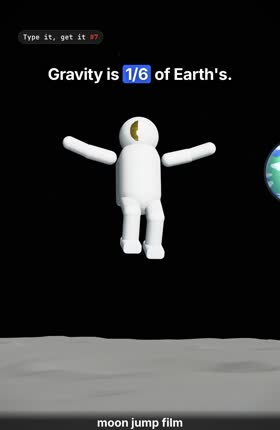
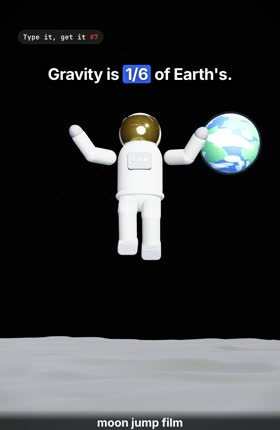
space7: Type it, get it #7 (Moon jump, solar system, black hole)
Claude-Session: https://claude.ai/code/session_011mgQaPmk61tb79mBg2KXZk

Changed region(s): [[0.0, 0.7558, 1.0, 0.9674], [0.2286, 0.2419, 1.0, 0.6047]]

diff --git a/hf/videos/space7/scenes.js b/hf/videos/space7/scenes.js
@@ -91,22 +91,29 @@ function strokeFig(g,p,jit){ const J=(q,i)=>jit?[q[0]+(hsh(i,jit)-.5)*3,q[1]+(hs
   const etex=canvasTex(1024,512,(c,w,h)=>{ c.fillStyle='#1d4fa8'; c.fillRect(0,0,w,h); const r=rnd(3);
     for(let i=0;i<22;i++){ c.fillStyle=i%3?'#3f8a4a':'#b59a62'; c.beginPath(); const x=r()*w,y=h*.2+r()*h*.6; for(let k=0;k<14;k++){ const a=k/14*Math.PI*2, rr=30+r()*70; c.lineTo(x+Math.cos(a)*rr*1.4,y+Math.sin(a)*rr*.8); } c.fill(); }
     for(let i=0;i<60;i++){ c.fillStyle='rgba(255,255,255,.55)'; c.beginPath(); c.ellipse(r()*w,r()*h,40+r()*90,8+r()*14,r()*.5,0,Math.PI*2); c.fill(); } });
-  const earth=new THREE.Mesh(new THREE.SphereGeometry(6,64,40),new THREE.MeshStandardMaterial({map:etex,roughness:.7,emissive:0x0a1a3a,emissiveIntensity:.3})); earth.position.set(-62,29,-120); sc.add(earth);
+  const earth=new THREE.Mesh(new THREE.SphereGeometry(6,64,40),new THREE.MeshStandardMaterial({map:etex,roughness:.7,emissive:0x0a1a3a,emissiveIntensity:.3})); earth.position.set(-32,38,-130); sc.add(earth);
   const atm=new THREE.Mesh(new THREE.SphereGeometry(6.4,48,32),glowMat(0x5aa0ff,.18)); atm.position.copy(earth.position); sc.add(atm);
-  // astronaut
-  const suit=new THREE.MeshStandardMaterial({color:0xd8d8d2,roughness:.75,envMapIntensity:.35}), dark=new THREE.MeshStandardMaterial({color:0x6d7178,roughness:.6}), visor=new THREE.MeshStandardMaterial({color:0xd6a53a,metalness:1,roughness:.12,envMapIntensity:1.2});
+  // astronaut: white suit with volume, chest panel, belt, gloves, neck ring, big gold mirrored visor over the whole face
+  const suit=new THREE.MeshStandardMaterial({color:0xe9e8e2,roughness:.62,envMapIntensity:.55}), dark=new THREE.MeshStandardMaterial({color:0x5f646c,roughness:.55,envMapIntensity:.5}),
+    visor=new THREE.MeshStandardMaterial({color:0xe0aa3e,metalness:1,roughness:.08,envMapIntensity:1.6}), strap=new THREE.MeshStandardMaterial({color:0xb9bcc2,roughness:.5});
   sc.environment=hdrEnv(ren);
-  const cap=(r,l,m)=>{ const o=new THREE.Mesh(new THREE.CapsuleGeometry(r,l,8,18),m); o.castShadow=true; return o; };
+  const rim=new THREE.DirectionalLight(0x9fc0ff,1.1); rim.position.set(-6,5,-9); sc.add(rim); const fill=new THREE.DirectionalLight(0xffffff,0.35); fill.position.set(2,3,12); sc.add(fill);
+  const cap=(r,l,m)=>{ const o=new THREE.Mesh(new THREE.CapsuleGeometry(r,l,10,24),m); o.castShadow=true; return o; };
   const man=new THREE.Group(); sc.add(man); const body=new THREE.Group(); man.add(body); body.position.y=1.15;
-  const torso=cap(0.36,0.55,suit); torso.position.y=0.45; body.add(torso);
-  const pack=new THREE.Mesh(rbox(0.62,0.8,0.32,0.08),suit); pack.position.set(0,0.5,-0.38); pack.castShadow=true; body.add(pack);
-  const helmet=new THREE.Mesh(new THREE.SphereGeometry(0.34,40,28),suit); helmet.position.y=1.18; helmet.castShadow=true; body.add(helmet);
-  const vz=new THREE.Mesh(new THREE.SphereGeometry(0.3,40,28,-Math.PI*0.42,Math.PI*0.84,Math.PI*0.25,Math.PI*0.45),visor); vz.position.set(0,1.18,0.05); vz.rotation.y=0; body.add(vz);
-  const limb=(px,py,l1,l2,r,m)=>{ const a=new THREE.Group(); a.position.set(px,py,0); const u=cap(r,l1,m); u.position.y=-l1/2-r*.3; a.add(u); const b=new THREE.Group(); b.position.y=-l1-r*.4; a.add(b); const d=cap(r*.92,l2,m); d.position.y=-l2/2-r*.3; b.add(d); return [a,b]; };
-  const [lA,lB]=limb(-0.2,0.05,0.42,0.42,0.15,suit), [rA,rB]=limb(0.2,0.05,0.42,0.42,0.15,suit); body.add(lA); body.add(rA);
-  const bootL=new THREE.Mesh(rbox(0.26,0.14,0.42,0.05),dark); bootL.position.set(0,-0.52,0.07); lB.add(bootL); const bootR=bootL.clone(); rB.add(bootR);
-  const [alA,alB]=limb(-0.47,0.78,0.36,0.34,0.12,suit), [arA,arB]=limb(0.47,0.78,0.36,0.34,0.12,suit); body.add(alA); body.add(arA);
-  man.rotation.y=0.55;
+  const torso=cap(0.38,0.5,suit); torso.position.y=0.47; torso.scale.set(1,1,.85); body.add(torso);
+  const belt=new THREE.Mesh(new THREE.TorusGeometry(0.36,0.05,12,40),strap); belt.rotation.x=Math.PI/2; belt.scale.set(1,.85,1); belt.position.y=0.1; body.add(belt);
+  const panel=new THREE.Mesh(rbox(0.36,0.26,0.08,0.04),dark); panel.position.set(0,0.62,0.31); body.add(panel);
+  [0xff4b3e,0x3ec1ff,0xf5d142].forEach((c,i)=>{ const b=new THREE.Mesh(new THREE.CylinderGeometry(0.03,0.03,0.03,16),new THREE.MeshStandardMaterial({color:c,emissive:c,emissiveIntensity:.6})); b.rotation.x=Math.PI/2; b.position.set(-0.1+i*0.1,0.62,0.36); body.add(b); });
+  const pack=new THREE.Mesh(rbox(0.66,0.82,0.34,0.1),suit); pack.position.set(0,0.52,-0.4); pack.castShadow=true; body.add(pack);
+  const ring=new THREE.Mesh(new THREE.TorusGeometry(0.24,0.06,14,40),strap); ring.rotation.x=Math.PI/2; ring.position.y=0.92; body.add(ring);
+  const helmet=new THREE.Mesh(new THREE.SphereGeometry(0.36,48,32),suit); helmet.position.y=1.2; helmet.castShadow=true; body.add(helmet);
+  const vz=new THREE.Mesh(new THREE.SphereGeometry(0.372,48,32,-Math.PI*0.36,Math.PI*0.72,Math.PI*0.28,Math.PI*0.42),visor); vz.position.set(0,1.2,0); vz.rotation.y=Math.PI/2; body.add(vz);
+  const limb=(px,py,l1,l2,r,m)=>{ const a=new THREE.Group(); a.position.set(px,py,0); const u=cap(r,l1,m); u.position.y=-l1/2-r*.3; a.add(u); const b=new THREE.Group(); b.position.y=-l1-r*.4; a.add(b); const d=cap(r*.92,l2,m); d.position.y=-l2/2-r*.3; b.add(d); return [a,b,d]; };
+  const [lA,lB]=limb(-0.19,0.05,0.42,0.42,0.16,suit), [rA,rB]=limb(0.19,0.05,0.42,0.42,0.16,suit); body.add(lA); body.add(rA);
+  const bootL=new THREE.Mesh(rbox(0.28,0.16,0.44,0.06),dark); bootL.position.set(0,-0.56,0.07); bootL.castShadow=true; lB.add(bootL); const bootR=bootL.clone(); rB.add(bootR);
+  const [alA,alB,alF]=limb(-0.5,0.78,0.34,0.32,0.13,suit), [arA,arB,arF]=limb(0.5,0.78,0.34,0.32,0.13,suit); body.add(alA); body.add(arA);
+  [alB,arB].forEach(b=>{ const gl=new THREE.Mesh(new THREE.SphereGeometry(0.12,24,16),dark); gl.scale.set(1,1.15,.9); gl.position.y=-0.44; gl.castShadow=true; b.add(gl); });
+  man.rotation.y=0.35;
   // dust: grains fly in clean ballistic arcs (no air), gravity g=1.62 m/s² scaled
   const N=420, dp=new Float32Array(N*3), dv=[]; for(let i=0;i<N;i++){ const a=R()*Math.PI*2, s=0.6+R()*1.8; dv.push([Math.cos(a)*s,1.0+R()*2.2,Math.sin(a)*s,R()*0.12]); }
   const dg=new THREE.BufferGeometry(); dg.setAttribute('position',new THREE.BufferAttribute(dp,3));
@@ -118,7 +125,7 @@ function strokeFig(g,p,jit){ const J=(q,i)=>jit?[q[0]+(hsh(i,jit)-.5)*3,q[1]+(hs
     body.position.y=1.15-sq+y;
     const tuck=inAir?Math.sin(air*Math.PI):0;
     lA.rotation.x=-0.5*crouch*(lt<T0?1:0)-0.9*tuck; lB.rotation.x=1.0*crouch*(lt<T0?1:0)+1.4*tuck; rA.rotation.x=lA.rotation.x+0.2*tuck; rB.rotation.x=lB.rotation.x-0.1*tuck;
-    alA.rotation.z=-0.25-1.6*tuck; arA.rotation.z=0.25+1.6*tuck; alA.rotation.x=0.5*crouch*(lt<T0?1:0); arA.rotation.x=alA.rotation.x; alB.rotation.x=-0.4; arB.rotation.x=-0.4;
+    const sw=lt<T0?crouch:0; alA.rotation.z=-0.18-0.7*tuck; arA.rotation.z=0.18+0.7*tuck; alA.rotation.x=0.6*sw-1.5*tuck; arA.rotation.x=0.6*sw-1.3*tuck; alB.rotation.x=-0.5-0.3*tuck; arB.rotation.x=-0.5-0.4*tuck;
     body.rotation.x=0.18*crouch*(lt<T0?1:0)-0.1*tuck;
     const dt=lt-T0; for(let i=0;i<N;i++){ const v=dv[i]; const tt=Math.max(0,dt-v[3]); let x=v[0]*tt, yy=0.05+v[1]*tt-0.81*tt*tt, z=v[2]*tt; if(yy<0.02){ yy=0.02; } if(dt<v[3]){ x=0; yy=-5; z=0; }
       const r=Math.hypot(v[0],v[2])*0.12; dp[i*3]=x+Math.sign(v[0])*r; dp[i*3+1]=yy; dp[i*3+2]=z; }
@@ -127,65 +134,65 @@ function strokeFig(g,p,jit){ const J=(q,i)=>jit?[q[0]+(hsh(i,jit)-.5)*3,q[1]+(hs
     ren.render(sc,cam); caption(0,lt); };
 })();
 
-// ---------- S1 /neon-silhouette a stick figure running through the city at night: a glowing pink stick figure runs, the skyline
-// slides past in two layers, every step leaves a cyan light trail, the wet street mirrors it all.
-(function(){ const F=flat2D('cv1'), g=F.g; const R=rnd(21); const GY=1260, FX=470, V=520;
-  const B1=[],B2=[]; for(let i=0;i<40;i++){ B1.push([i*150+R()*40,90+R()*170,110+R()*60,R()]); B2.push([i*120+R()*30,220+R()*420,90+R()*50,R()]); }
-  SCN[1]=function(lt0){ const lt=lt0*1.1, X=lt*V, ph=lt*Math.PI*2*2.2;
-    const gr=g.createLinearGradient(0,0,0,GY); gr.addColorStop(0,'#05030f'); gr.addColorStop(0.7,'#1a0b3a'); gr.addColorStop(1,'#3a0f4a'); g.fillStyle=gr; g.fillRect(0,0,1080,1920);
-    g.fillStyle='rgba(255,90,200,.15)'; g.beginPath(); g.arc(780,600,120,0,Math.PI*2); g.fill();
-    const bld=(L,par,col,win)=>{ for(const [bx,bh,bw,r] of L){ const x=((bx-X*par)%6000+6000)%6000-200; if(x>1100||x+bw<-20) continue; g.fillStyle=col; g.fillRect(x,GY-bh,bw,bh);
-        if(win){ for(let wy=GY-bh+20;wy<GY-20;wy+=34) for(let wx=x+14;wx<x+bw-18;wx+=28){ const on=hsh(Math.round(wx+bx),wy)>0.55; if(on){ g.fillStyle=hsh(wx,wy+1)>.5?'rgba(255,214,120,.85)':'rgba(120,230,255,.75)'; g.fillRect(wx,wy,12,16); } } }
-        if(r>0.7){ g.save(); g.strokeStyle=r>0.85?'#2ff3ff':'#ff3fd0'; g.lineWidth=6; g.shadowColor=g.strokeStyle; g.shadowBlur=20; g.strokeRect(x+12,GY-bh+30,bw-24,40); g.restore(); } } };
-    bld(B1,0.15,'#120a2a',false); bld(B2,0.4,'#0b0718',true);
-    g.fillStyle='#07040f'; g.fillRect(0,GY,1080,1920-GY);
-    // street lines
-    g.strokeStyle='rgba(255,63,208,.5)'; g.lineWidth=4; for(let i=0;i<12;i++){ const x=((i*160-X)%1920+1920)%1920-200; g.beginPath(); g.moveTo(x,GY+120); g.lineTo(x+90,GY+120); g.stroke(); }
-    const fig=(p,col,w,a)=>{ g.save(); g.globalAlpha=a; g.lineCap='round'; g.lineJoin='round'; g.strokeStyle=col; g.lineWidth=w; g.shadowColor=col; g.shadowBlur=26; strokeFig(g,p); g.shadowBlur=0; g.strokeStyle='rgba(255,255,255,.9)'; g.lineWidth=w*0.32; strokeFig(g,p); g.restore(); };
-    const S=1.55, oy=GY-104*S;
-    g.save(); g.translate(FX,oy); g.scale(S,S);
-    for(let i=6;i>=1;i--){ const dtt=i*0.055; const p=pose(ph-dtt*Math.PI*2*2.2,'run',{x:-dtt*V/S,y:0}); fig(p,'#2ff3ff',6,0.38*(1-i/7)); }
-    fig(pose(ph,'run'),'#ff3fd0',8,1); g.restore();
-    // reflection
-    g.save(); g.translate(FX,GY+(GY-oy)); g.scale(S,-S); g.globalAlpha=0.25; fig(pose(ph,'run'),'#ff3fd0',8,0.35); g.restore();
-    g.fillStyle='rgba(7,4,15,.35)'; g.fillRect(0,GY,1080,1920-GY);
-    F.draw(); caption(1,lt); };
+// ---------- S1 /explain-3d our solar system: the Sun in the middle, the 8 planets on their orbits (inner ones move faster,
+// outer ones slower); the camera tilts down from a side view to an overview while the planet names pop in one by one.
+(function(){ const ren=mkRenderer2('cv1'), sc=new THREE.Scene(); sc.background=new THREE.Color(0x030409);
+  const cam=new THREE.PerspectiveCamera(36,1080/1920,0.1,800); const R=rnd(31);
+  const sp=[]; for(let i=0;i<2500;i++){ const v=new THREE.Vector3(R()-.5,R()-.5,R()-.5).normalize().multiplyScalar(300); sp.push(v.x,v.y,v.z); }
+  const sg=new THREE.BufferGeometry(); sg.setAttribute('position',new THREE.Float32BufferAttribute(sp,3)); sc.add(new THREE.Points(sg,new THREE.PointsMaterial({color:0xffffff,size:1.2,sizeAttenuation:false,toneMapped:false})));
+  const sunTex=canvasTex(512,256,(c,w,h)=>{ c.fillStyle='#ffb21f'; c.fillRect(0,0,w,h); const r=rnd(4); for(let i=0;i<500;i++){ c.fillStyle=`rgba(255,${120+r()*120|0},0,${.15+r()*.3})`; c.beginPath(); c.arc(r()*w,r()*h,4+r()*20,0,Math.PI*2); c.fill(); } });
+  const sun=new THREE.Mesh(new THREE.SphereGeometry(1.7,64,40),new THREE.MeshBasicMaterial({map:sunTex,toneMapped:false})); sc.add(sun);
+  const glowT=canvasTex(256,256,(c,w,h)=>{ const g=c.createRadialGradient(128,128,0,128,128,128); g.addColorStop(0,'rgba(255,200,90,.9)'); g.addColorStop(.35,'rgba(255,150,40,.35)'); g.addColorStop(1,'rgba(255,120,20,0)'); c.fillStyle=g; c.fillRect(0,0,w,h); });
+  const glow=new THREE.Sprite(new THREE.SpriteMaterial({map:glowT,transparent:true,depthWrite:false,blending:THREE.AdditiveBlending,toneMapped:false})); glow.scale.set(9,9,1); sc.add(glow);
+  const pl=new THREE.PointLight(0xfff1d6,3.2,0,0); sc.add(pl); sc.add(new THREE.AmbientLight(0x404a60,0.25));
+  // name, orbit radius (scene units, not to scale), size, colour, speed (inner faster)
+  const P=[['Mercury',2.9,.3,'#a9a29a',4.1],['Venus',3.8,.5,'#e8c48a',3.0],['Earth',4.8,.55,'#3d7fd6',2.5],['Mars',5.8,.42,'#d0603a',2.0],
+           ['Jupiter',7.2,1.15,'#d9b38c',1.1],['Saturn',8.6,.95,'#e6d29a',.8],['Uranus',9.8,.7,'#9fe0e6',.55],['Neptune',10.9,.68,'#4b6fe0',.42]];
+  const tag=(name)=>{ const t=canvasTex(512,128,(c,w,h)=>{ c.font='700 58px Inter, Arial'; c.textAlign='center'; c.textBaseline='middle'; const tw=c.measureText(name).width+56;
+      c.fillStyle='rgba(8,9,12,.85)'; c.beginPath(); c.roundRect(w/2-tw/2,h/2-40,tw,80,40); c.fill(); c.fillStyle='#fff'; c.fillText(name,w/2,h/2+3); });
+    const s=new THREE.Sprite(new THREE.SpriteMaterial({map:t,transparent:true,depthTest:false,toneMapped:false})); s.scale.set(3.6,.9,1); s.renderOrder=9; return s; };
+  const planets=P.map(([n,r,sz,col,sp],k)=>{ const tex=canvasTex(256,128,(c,w,h)=>{ c.fillStyle=col; c.fillRect(0,0,w,h); const rr=rnd(k+3); for(let i=0;i<(k>=4?14:60);i++){ c.fillStyle=`rgba(${rr()>.5?255:0},${rr()>.5?255:0},${rr()>.5?255:0},.08)`; if(k>=4) c.fillRect(0,rr()*h,w,4+rr()*10); else { c.beginPath(); c.arc(rr()*w,rr()*h,3+rr()*10,0,7); c.fill(); } } });
+    const m=new THREE.Mesh(new THREE.SphereGeometry(sz,40,28),new THREE.MeshStandardMaterial({map:tex,roughness:.85})); sc.add(m);
+    if(n==='Saturn'){ const rg=new THREE.Mesh(new THREE.RingGeometry(sz*1.25,sz*1.75,64),new THREE.MeshBasicMaterial({color:0xd8c79a,side:THREE.DoubleSide,transparent:true,opacity:.75})); rg.rotation.x=Math.PI/2.4; m.add(rg); }
+    const o=new THREE.Mesh(new THREE.RingGeometry(r-0.015,r+0.015,160),new THREE.MeshBasicMaterial({color:0x8090b0,transparent:true,opacity:.35,side:THREE.DoubleSide,toneMapped:false})); o.rotation.x=-Math.PI/2; sc.add(o);
+    const t=tag(n); sc.add(t); return {m,r,sp,t,a0:k*0.9+0.4,sz}; });
+  SCN[1]=function(lt0){ const lt=lt0*1.15; sun.rotation.y=lt*0.2;
+    planets.forEach((p,k)=>{ const a=p.a0+lt*p.sp*0.35; p.m.position.set(Math.cos(a)*p.r,0,-Math.sin(a)*p.r); p.m.rotation.y=lt*1.5;
+      const on=cl((lt-0.35-k*0.16)/0.2); p.t.position.copy(p.m.position).add(new THREE.Vector3(0,p.sz+0.55,0)); p.t.material.opacity=on; p.t.scale.set(3.6*(0.7+0.3*on),.9*(0.7+0.3*on),1); });
+    const u=easeIO(cl(lt/3.2)), el=0.45+0.6*u, d=62-5*u; cam.position.set(Math.sin(0.25)*d*Math.cos(el),d*Math.sin(el),Math.cos(0.25)*d*Math.cos(el)); cam.lookAt(0,-0.6,0);
+    ren.render(sc,cam); caption(1,lt); };
 })();
 
-// ---------- S2 /ink-doodle a stick figure losing his umbrella in the wind: hand-inked on paper (lines boil at 8 fps), rain falls,
-// a gust swirls in, the red umbrella flips inside out and flies off, the figure jumps after it.
-(function(){ const F=flat2D('cv2'), g=F.g; const R=rnd(5);
-  const paper=document.createElement('canvas'); paper.width=1080; paper.height=1920; const pg=paper.getContext('2d'); pg.fillStyle='#f3ecdc'; pg.fillRect(0,0,1080,1920);
-  for(let i=0;i<60000;i++){ const v=R(); pg.fillStyle=`rgba(${v>.5?255:120},${v>.5?250:100},${v>.5?240:70},${0.04+R()*0.05})`; pg.fillRect(R()*1080,R()*1920,1+R()*2,1+R()*2); }
-  const vg=pg.createRadialGradient(540,900,500,540,900,1300); vg.addColorStop(0,'rgba(0,0,0,0)'); vg.addColorStop(1,'rgba(120,90,50,.25)'); pg.fillStyle=vg; pg.fillRect(0,0,1080,1920);
-  const GY=1230, INK='#18140e';
-  function umbrella(cx,cy,rot,flip,jit,sc){ g.save(); g.translate(cx,cy); g.rotate(rot); g.scale(sc,sc); const k=flip; // k: 0 normal → 1 inside out
-    const top=-70+140*k; const pts=[]; for(let i=0;i<=16;i++){ const u=i/16, x=-110+220*u; pts.push([x,-(1-Math.pow(2*u-1,2))*(-top)-0+(k*20*Math.sin(u*Math.PI*5))]); }
-    g.beginPath(); g.moveTo(-110,0); pts.forEach(q=>g.lineTo(q[0]+(hsh(q[0],jit)-.5)*3,q[1]+(hsh(q[1],jit)-.5)*3)); g.lineTo(110,0);
-    for(let i=4;i>=0;i--){ const x=110-i*55; g.quadraticCurveTo(x+27,14*(1-2*k),x,0); }
-    g.closePath(); g.globalCompositeOperation='multiply'; g.fillStyle='rgba(214,58,48,.82)'; g.fill(); g.globalCompositeOperation='source-over'; g.strokeStyle=INK; g.lineWidth=4; g.stroke();
-    g.lineWidth=3; for(let i=1;i<4;i++){ const x=-110+i*55; g.beginPath(); g.moveTo(0,top*0.9); g.lineTo(x,0); g.stroke(); }
-    g.lineWidth=5; g.beginPath(); g.moveTo(0,top*0.95); g.lineTo(0,170); g.arc(-16,170,16,0,Math.PI); g.stroke(); g.restore(); }
-  SCN[2]=function(lt0){ const lt=lt0*1.1, jit=Math.floor(lt*8)+1; g.drawImage(paper,0,0);
-    // rain
-    g.strokeStyle='rgba(24,20,14,.35)'; g.lineWidth=2.4; const wind=cl((lt-0.6)/0.4); for(let i=0;i<70;i++){ const x=((hsh(i,1)*1300+lt*(120+600*wind))%1300)-110, y=((hsh(i,2)*1500+lt*900)%1300)+300; if(y>GY) continue; g.beginPath(); g.moveTo(x,y); g.lineTo(x-8-30*wind,y+38); g.stroke(); }
-    // ground
-    g.strokeStyle=INK; g.lineWidth=5; g.lineCap='round'; g.beginPath(); for(let x=0;x<=1080;x+=20){ const y=GY+Math.sin(x*0.02)*3+(hsh(x,jit)-.5)*3; x?g.lineTo(x,y):g.moveTo(x,y); } g.stroke();
-    // gust swirls
-    if(lt>0.55&&lt<2.4){ const u=cl((lt-0.55)/1.4); g.save(); g.strokeStyle='rgba(24,20,14,.7)'; g.lineWidth=4; for(let k=0;k<3;k++){ const x0=-200+u*1500-k*140, y0=760+k*90; g.beginPath(); for(let a=0;a<=1;a+=0.05){ const x=x0+a*260, y=y0+Math.sin(a*6+k)*16; a?g.lineTo(x,y):g.moveTo(x,y); } g.arc(x0+270,y0-14,18,Math.PI/2,Math.PI*2.2); g.stroke(); } g.restore(); }
-    // figure
-    const walkX=360+lt*70, chase=cl((lt-1.45)/1.4), fx=walkX+chase*260, jump=lt>1.9&&lt<2.6?Math.sin((lt-1.9)/0.7*Math.PI)*90:0;
-    const lose=cl((lt-0.85)/0.25), surprised=lt>1.0&&lt<1.5;
-    const kind=lt>1.45?'run':'walk', ph=lt*Math.PI*2*(lt>1.45?2.0:1.2);
-    const S=1.45, oy=GY-104*S-jump; g.save(); g.translate(fx,oy); g.scale(S,S);
-    const p=pose(ph,kind,{lean:surprised?-0.18:(lt>1.45?0.25:0.06),armUp:lt<0.95||lt>1.6});
-    g.strokeStyle=INK; g.lineWidth=5; g.lineCap='round'; g.lineJoin='round'; strokeFig(g,p,jit); g.lineWidth=2.5; strokeFig(g,p,jit+50);
-    g.fillStyle=INK; g.beginPath(); g.arc(p.head[0]+8,p.head[1]-4,3.5,0,Math.PI*2); g.fill();
-    if(surprised){ g.font='700 60px "TeX Gyre Chorus", serif'; g.fillText('!',p.head[0]-8,p.head[1]-40); }
-    const hand=p.R1[1]; g.restore();
-    // umbrella: held, then flips and flies up-right, tumbling
-    const hx=fx+hand[0]*S, hy=oy+hand[1]*S;
-    if(lt<0.85){ umbrella(hx,hy-230,0.05+Math.sin(lt*3)*0.03,0,jit,1.35); }
-    else { const u=cl((lt-0.85)/1.9), e=u*u; umbrella(hx+e*900+u*120,hy-230-u*620+Math.sin(u*9)*20,lose*0.6+u*4.2,lose,jit,1.35*(1-u*0.25)); }
-    F.draw(); caption(2,lt); };
+// ---------- S2 /deep-dive how a black hole works: a black sphere (the event horizon, the point of no return) wrapped in a hot
+// glowing accretion disk of gas spiralling in; a star drifts too close, is stretched into a long stream and spirals into the disk.
+// Labels: accretion disk / event horizon / singularity (textbook simplified).
+(function(){ const ren=mkRenderer2('cv2'), sc=new THREE.Scene(); sc.background=new THREE.Color(0x020205);
+  const cam=new THREE.PerspectiveCamera(36,1080/1920,0.1,800); const R=rnd(77);
+  const sp=[]; for(let i=0;i<2200;i++){ const v=new THREE.Vector3(R()-.5,R()-.5,R()-.5).normalize().multiplyScalar(300); sp.push(v.x,v.y,v.z); }
+  const sg=new THREE.BufferGeometry(); sg.setAttribute('position',new THREE.Float32BufferAttribute(sp,3)); sc.add(new THREE.Points(sg,new THREE.PointsMaterial({color:0xffffff,size:1.1,sizeAttenuation:false,toneMapped:false})));
+  const diskT=canvasTex(1024,1024,(c,w,h)=>{ const cx=w/2; const g=c.createRadialGradient(cx,cx,w*0.16,cx,cx,w*0.5); g.addColorStop(0,'rgba(255,250,230,1)'); g.addColorStop(.12,'rgba(255,210,120,1)'); g.addColorStop(.4,'rgba(255,120,30,.85)'); g.addColorStop(.75,'rgba(180,40,10,.35)'); g.addColorStop(1,'rgba(80,10,0,0)');
+    c.fillStyle=g; c.fillRect(0,0,w,h); const r=rnd(9); c.globalCompositeOperation='multiply'; for(let i=0;i<260;i++){ const rr=w*(0.17+r()*0.32), a=r()*Math.PI*2; c.strokeStyle=`rgba(${120+r()*100|0},${40+r()*60|0},0,.35)`; c.lineWidth=2+r()*6; c.beginPath(); c.arc(cx,cx,rr,a,a+0.4+r()*1.4); c.stroke(); }
+    c.globalCompositeOperation='destination-out'; c.beginPath(); c.arc(cx,cx,w*0.155,0,7); c.fill(); });
+  const disk=new THREE.Mesh(new THREE.RingGeometry(1.5,5.2,128,1),new THREE.MeshBasicMaterial({map:diskT,transparent:true,side:THREE.DoubleSide,blending:THREE.AdditiveBlending,depthWrite:false,toneMapped:false}));
+  // RingGeometry UVs map the square texture: fine for a radial gradient
+  disk.rotation.x=-Math.PI/2+0.18; sc.add(disk);
+  const halo=new THREE.Mesh(new THREE.RingGeometry(1.25,1.75,96),new THREE.MeshBasicMaterial({color:0xffd9a0,transparent:true,opacity:.55,blending:THREE.AdditiveBlending,depthWrite:false,toneMapped:false,side:THREE.DoubleSide})); sc.add(halo);
+  const hole=new THREE.Mesh(new THREE.SphereGeometry(1.25,64,40),new THREE.MeshBasicMaterial({color:0x000000})); sc.add(hole);
+  // the star and its stream
+  const star=new THREE.Mesh(new THREE.SphereGeometry(0.42,40,28),new THREE.MeshBasicMaterial({color:0xbfe0ff,toneMapped:false})); sc.add(star);
+  const sglowT=canvasTex(128,128,(c,w,h)=>{ const g=c.createRadialGradient(64,64,0,64,64,64); g.addColorStop(0,'rgba(190,225,255,.9)'); g.addColorStop(1,'rgba(120,180,255,0)'); c.fillStyle=g; c.fillRect(0,0,w,h); });
+  const sgl=new THREE.Sprite(new THREE.SpriteMaterial({map:sglowT,transparent:true,blending:THREE.AdditiveBlending,depthWrite:false,toneMapped:false})); sc.add(sgl);
+  const NS=500, spos=new Float32Array(NS*3), sgeo=new THREE.BufferGeometry(); sgeo.setAttribute('position',new THREE.BufferAttribute(spos,3));
+  const stream=new THREE.Points(sgeo,new THREE.PointsMaterial({color:0xcfe6ff,size:0.07,transparent:true,opacity:.95,blending:THREE.AdditiveBlending,depthWrite:false,toneMapped:false})); sc.add(stream);
+  const path=(u)=>{ const r=7.5-6.0*u, a=-0.6+u*5.2; return new THREE.Vector3(Math.cos(a)*r,0.5*(1-u)+Math.sin(0.18)*(-Math.sin(a)*r)*0,-Math.sin(a)*r); };
+  const anchors=[new THREE.Object3D(),new THREE.Object3D(),new THREE.Object3D()]; anchors[0].position.set(4.2,0,0.6); anchors[1].position.set(-0.9,0.9,0.4); anchors[2].position.set(0,0,0); anchors.forEach(a=>sc.add(a));
+  SCN[2]=function(lt0){ const lt=lt0*1.15; disk.rotation.z=lt*0.6;
+    const u=easeIO(cl((lt-0.2)/2.6)); const head=path(u*0.92); star.position.copy(head); sgl.position.copy(head); sgl.scale.setScalar(2.2*(1-u*0.6));
+    star.scale.set(1+u*2.2,1-u*0.6,1-u*0.6); star.lookAt(0,0,0); star.visible=u<0.9;
+    for(let i=0;i<NS;i++){ const f=i/NS, uu=Math.max(0,u*0.92-f*0.55*u); const q=path(uu); spos[i*3]=q.x+(R()-.5)*0.05*u; spos[i*3+1]=q.y+(R()-.5)*0.05*u; spos[i*3+2]=q.z+(R()-.5)*0.05*u; }
+    sgeo.attributes.position.needsUpdate=true; stream.material.opacity=0.95*cl(u*4);
+    halo.lookAt(cam.position);
+    const d=19-3*easeIO(cl(lt/3)); cam.position.set(Math.sin(0.5+lt*0.05)*d*0.95,d*0.28,Math.cos(0.5+lt*0.05)*d*0.95); cam.lookAt(0,0.4,0);
+    layoutLabels([['l2_0',anchors[0],cl((lt-0.8)/0.2)],['l2_1',anchors[1],cl((lt-1.15)/0.2)],['l2_2',anchors[2],cl((lt-1.5)/0.2)]].map(([id,o,a])=>[document.getElementById(id),o,a]),cam,620,150);
+    ren.render(sc,cam); caption(2,lt); };
 })();

diff --git a/hf/videos/space7/build.py b/hf/videos/space7/build.py
@@ -1,13 +1,13 @@
-"""films7 - App demo "Type it, get it #7" (Jan live, 2026-11-07): /zack-d-films what if you jumped on the Moon, /neon-silhouette a stick
-figure running through the city at night, /ink-doodle a stick figure losing his umbrella in the wind. Every result is drawn in code here
-(three.js + 2D canvas). Fact used: Moon gravity is about 1/6 of Earth's; no air, so dust flies in clean arcs. Prompts for DM: prompts.md."""
+"""space7 - App demo "Type it, get it #7" (Jan live, 2026-11-07), all space: /zack-d-films what if you jumped on the Moon,
+/explain-3d our solar system, /deep-dive how a black hole works. All drawn in code (one shared WebGL context). Facts: Moon gravity ~1/6 of
+Earth's, no air so dust flies in arcs; 8 planets, inner ones orbit faster; nothing escapes past the event horizon. DM prompts: prompts.md."""
 import json, shutil, subprocess, sys
 from pathlib import Path
 HERE = Path(__file__).parent
 sys.path.insert(0, str(HERE.parent.parent))
 from house import Film, series, FOLLOW_LINE
 
-W = HERE.parent.parent / "work" / "films7"
+W = HERE.parent.parent / "work" / "space7"
 A = W / "assets"
 for f in (HERE / "media").iterdir():
     shutil.copy(f, A / f.name)
@@ -17,7 +17,7 @@ for k in range(3):
         Image.new("RGB", (280, 430), (34, 34, 34)).save(A / f"th{k}.jpg")
 
 # --- gaps after each "this." so the 3D result plays
-GAPS = {15: 1.8, 32: 1.8, 49: 1.8}
+GAPS = {15: 1.8, 26: 1.8, 39: 1.8}
 if not (A / "voice_raw.mp3").exists():
     shutil.copy(A / "voice.mp3", A / "voice_raw.mp3"); shutil.copy(A / "voice.json", A / "voice_raw.json")
 vw = json.loads((A / "voice_raw.json").read_text())
@@ -43,15 +43,15 @@ S, E = F.S, F.E
 
 DEMOS = [  # Type idx, (cmd i0,i1), (prompt i0,i1), 'and' idx, cmd, prompt, title, caption, hi, chip description
     (0, (2, 4), (5, 11), 12, "zack-d-films", "what if you jumped on the Moon", "moon jump film", "Gravity is 1/6 of Earth's.", 2, "Zack D Films–style 3D short"),
-    (16, (18, 19), (20, 28), 29, "neon-silhouette", "a stick figure running through the city at night", "neon city run", "Every step leaves light.", 3, "Glowing neon silhouette animation"),
-    (33, (35, 36), (37, 45), 46, "ink-doodle", "a stick figure losing his umbrella in the wind", "umbrella doodle", "The wind always wins.", 1, "Hand-drawn ink doodle animation"),
+    (16, (18, 19), (20, 22), 23, "explain-3d", "our solar system", "solar system explainer", "8 planets, one Sun.", 3, "3D explainer of anything"),
+    (27, (29, 30), (31, 35), 36, "deep-dive", "how a black hole works", "black hole deep dive", "Not even light escapes.", 2, "Cinematic deep dive into anything"),
 ]
 SER = 7
 CMD = "zack-d-films"
 TY = []
 for k, (a, (ci0, ci1), (pi0, pi1), andi, cmd, prompt, title, cap, hi, desc) in enumerate(DEMOS):
     T = 0.0 if k == 0 else round(S[a] - 0.15, 3)
-    nxt = round(S[DEMOS[k + 1][0]] - 0.15, 3) if k < 2 else round(S[50] - 0.15, 3)
+    nxt = round(S[DEMOS[k + 1][0]] - 0.15, 3) if k < 2 else round(S[40] - 0.15, 3)
     t_slash = 0.0 if k == 0 else max(T + 0.05, S[a + 1] - 0.05)
     c0, c1 = (0.08 if k == 0 else S[ci0]), E[ci1]
     p0, p1 = S[pi0], E[pi1] - 0.05
@@ -84,7 +84,7 @@ keys_html += [f'<div class="k f" style="left:30px;top:{KY0 + 232}px;width:120px"
               f'<div class="k f" style="left:840px;top:{y3}px;width:210px">return</div>']
 KEYPOS[" "] = (460, y3)
 
-LABELS = [[], [], []]
+LABELS = [[], [], [("Accretion disk", "hot gas spirals in"), ("Event horizon", "point of no return"), ("Singularity", "the crushed centre")]]
 ui = ['<script src="assets/three.min.js"></script><script src="assets/three-extras.js"></script><script src="assets/studio_exr.js"></script><div class="ui" id="ui">',
       '<div id="sb"><span>9:41</span><span>●●● <i></i></span></div>',
       '<div id="tabs"><span>Chat</span><span class="on">Code</span></div><div id="ctr"><b id="cn">1/3</b></div>',
@@ -102,7 +102,7 @@ for k, (a, _c, _p, _a, cmd, prompt, title, cap, hi, desc) in enumerate(DEMOS):
                f'<div class="cap">{capw}</div>{labs}'
                f'<div class="ttl"><b>{title}</b><i>with Claude Code</i></div></div>')
 thumbs = "".join(f'<div class="th" id="th{k}" style="left:{x}px"><img src="assets/th{k}.jpg" alt=""></div>' for k, x in enumerate([90, 400, 710]))
-end = ('<div id="end">' + SPARK + '<div class="c" id="e1">Comment</div><div class="kw" id="e2">“FILMS”</div>'
+end = ('<div id="end">' + SPARK + '<div class="c" id="e1">Comment</div><div class="kw" id="e2">“SPACE”</div>'
        '<div class="g" id="e3">and I\'ll send you the link</div>' + thumbs + '<div class="series" id="eser" style="left:0;right:0;margin:0 auto;width:fit-content;top:1400px">Type it, get it <b>#'+str(SER)+'</b></div>' + FOLLOW_LINE.replace('class="follow"', 'class="follow" id="efol" style="top:1490px;color:#fff"') + '</div>')
 F.body.append('<div class="layer" id="serl">' + series("Type it, get it", SER, x=70, y=116, dark=True) + '</div>')
 F.clip(0, "".join(ui) + stages + end)
@@ -252,7 +252,7 @@ tl.set('#st2',{opacity:0},END); tl.set('#ui',{opacity:0},END);
 F2('#end',{opacity:0},{opacity:1,duration:.15},END);
 F2('#end svg',{scale:0,rotation:-90},{scale:1,rotation:0,duration:.45,ease:'back.out(2)'},END+0.05);
 F2('#e1',{opacity:0,y:40},{opacity:1,y:0,duration:.3,ease:A},END+0.02);
-F2('#e2',{opacity:0,scale:1.5},{opacity:1,scale:1,duration:.4,ease:'back.out(1.8)'},S[51]-0.1);
+F2('#e2',{opacity:0,scale:1.5},{opacity:1,scale:1,duration:.4,ease:'back.out(1.8)'},S[41]-0.1);
 F2('#e3',{opacity:0,y:30},{opacity:1,y:0,duration:.3,ease:A},END+0.12);
 [0,1,2].forEach(k=>F2('#th'+k,{opacity:0,y:200,rotation:(k-1)*8},{opacity:1,y:0,rotation:(k-1)*3,duration:.5,ease:'back.out(1.4)'},END+0.12));
 F2('#handle',{opacity:0},{opacity:1,duration:.3},END+0.5);

diff --git a/hf/videos/space7/prompts.md b/hf/videos/space7/prompts.md
@@ -1,15 +1,16 @@
-# films7 prompts — DM for comment FILMS
+# space7 prompts — DM for comment SPACE
 Save each as a Claude Code command (.claude/commands/<name>.md, "$ARGUMENTS" = your idea) or paste it directly.
 
-/zack-d-films — A 6-second vertical (9:16) "what if" 3D short about $ARGUMENTS, in ONE self-contained HTML file with three.js, rendered by
-a deterministic render(t). Smooth stylised 3D (soft materials, one hard key light, real shadows), a low cinematic camera that slowly
-pushes in, one bold caption at the top with the key fact in a highlight box. Get the science right (textbook facts only) and SHOW it:
-e.g. on the Moon gravity is about 1/6 of Earth's and there's no air, so the jump is slow and high and the dust flies in clean arcs.
+/zack-d-films — A 6-second vertical (9:16) "what if" 3D short about $ARGUMENTS, ONE self-contained HTML file with three.js and a
+deterministic render(t). Stylised 3D with real volume (soft materials, one hard key light, a cool rim light, real shadows), a low
+cinematic camera that slowly pushes in, one bold caption at the top with the key fact in a highlight box. Textbook facts only, and SHOW
+them: e.g. on the Moon gravity is about 1/6 of Earth's and there's no air, so the jump is slow and high and the dust flies in clean arcs.
 
-/neon-silhouette — A looping 9:16 neon animation of $ARGUMENTS, one HTML file, canvas 2D. A glowing stick figure (pink core, white hot
-centre, soft glow) on a dark night city: two parallax skyline layers with lit windows and neon signs, a wet street that mirrors the
-figure, cyan light trails behind every moving limb. Smooth run cycle, deterministic render(t), ~2 s loop.
+/explain-3d — A 9:16 3D explainer of $ARGUMENTS in one HTML file (three.js, render(t), ~6 s). Decide the key parts and the one thing that
+moves between them, build them from primitives with care, animate the mechanism with physically plausible speeds, pop in short name
+tags one by one, slow camera move from a side view to an overview. Caption: max 7 words, one highlighted key word. No invented numbers.
 
-/ink-doodle — A 9:16 hand-drawn ink animation of $ARGUMENTS, one HTML file, canvas 2D. Cream paper with grain and a soft vignette,
-black ink lines that "boil" (re-jitter) 8 times a second, one watercolour accent colour that slightly misses the lines, simple stick
-figure acting with clear anticipation → action → reaction, little ink effects (rain dashes, wind swirls, a "!" over the head).
+/deep-dive — A cinematic 9:16 3D deep dive into $ARGUMENTS (three.js, one HTML file, render(t), ~6 s): dark space, a dramatic hero shot,
+glowing additive materials for energy and light, a slow orbiting camera, 3 labels in one column with leader lines (bold name + short
+mono sub-line), caption with one highlighted word. For a black hole: a black event horizon, a hot accretion disk spiralling in, a star
+that gets too close is stretched into a stream and swallowed. Textbook facts only.
